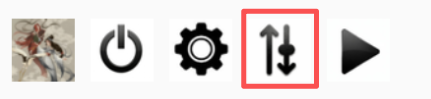
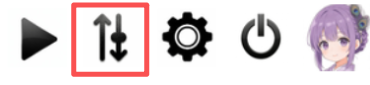
Update assets and refactor authentication and UI logic
This commit updates the switch_explain.png asset and refactors the user authentication logic in Auth.kt for improved readability. It also modifies the UI behavior in SwitchAccount.kt to ensure proper state management during account switching, enhancing user experience. Additionally, the FindHeroHall function is updated to clarify the detection process for hero halls.

diff --git a/app/src/main/java/com/coc/zkqcode/jar/code/auth/Auth.kt b/app/src/main/java/com/coc/zkqcode/jar/code/auth/Auth.kt
@@ -8,7 +8,6 @@ import com.coc.zkqcode.core.util.crypto.solvePoW
 import com.coc.zkqcode.jar.ui.schema.Schema.GLOBAL_SETTINGS
 import com.coc.zkqcode.nativehelper.RustTools
 import kotlinx.coroutines.Dispatchers
-import kotlinx.coroutines.delay
 import kotlinx.coroutines.sync.Mutex
 import kotlinx.coroutines.sync.withLock
 import kotlinx.coroutines.withContext
@@ -87,10 +86,7 @@ suspend fun userAuth() {
             return
         }
 
-        val payload = "email=${urlEncode(email)}" +
-                "&password=${urlEncode(password)}" +
-                "&timestamp=$timestamp" +
-                "&last_time=$lastTime"
+        val payload = "email=${urlEncode(email)}" + "&password=${urlEncode(password)}" + "&timestamp=$timestamp" + "&last_time=$lastTime"
 
         val encryptionParts = try {
             RustTools.encryptLoginPayload(payload).split(",", limit = 3)
@@ -105,20 +101,13 @@ suspend fun userAuth() {
             return
         }
 
-        val postData = "public_key=${encryptionParts[0]}" +
-                "&nonce=${encryptionParts[1]}" +
-                "&data=${encryptionParts[2]}" +
-                "&pow_nonce=$powNonce" +
-                "&pow_salt=$powSalt"
+        val postData = "public_key=${encryptionParts[0]}" + "&nonce=${encryptionParts[1]}" + "&data=${encryptionParts[2]}" + "&pow_nonce=$powNonce" + "&pow_salt=$powSalt"
 
         val responseCode: Int
         val responseBody: String
         try {
             val requestBody = postData.toRequestBody("application/x-www-form-urlencoded".toMediaTypeOrNull())
-            val deductRequest = Request.Builder()
-                .url("${baseUrl}api/mobile-deduct")
-                .post(requestBody)
-                .build()
+            val deductRequest = Request.Builder().url("${baseUrl}api/mobile-deduct").post(requestBody).build()
             val response = withContext(Dispatchers.IO) {
                 httpClient.newCall(deductRequest).execute()
             }
@@ -136,8 +125,10 @@ suspend fun userAuth() {
             // Flag ad display on non-200 deduct response
             ShowMessage("登录失败，错误信息：$responseBody")
             delayWithMultiplier(2000)
-            GlobalVars.serverActions?.writeToConfigFile("gem_count", "0")
-            GlobalVars.configStates["gem_count"]?.value = "0"
+            if (responseBody.contains("密码错误")) {
+                GlobalVars.serverActions?.writeToConfigFile("gem_count", "0")
+                GlobalVars.configStates["gem_count"]?.value = "0"
+            }
             GlobalVars.isShowAd = true
             return
         }

diff --git a/app/src/main/java/com/coc/zkqcode/jar/ui/pages/single/SwitchAccount.kt b/app/src/main/java/com/coc/zkqcode/jar/ui/pages/single/SwitchAccount.kt
@@ -216,8 +216,11 @@ fun SwitchAccount(onClose: () -> Unit) {
                                     RunShell.runNoOutput("am start -n com.supercell.clashofclans/com.supercell.titan.GameApp", false)
                                 }
                                 GlobalVars.isSwitchingAccount = false
+                                AppStateManager.setMode(AppMode.Run) //just to close the ui
+                                GlobalVars.isPlaying.value = false
+                                GlobalVars.updateWindowPosition = true
                                 withContext(Dispatchers.Main) {
-                                    ShowMessage("切号完成")
+                                    ShowMessage("切号完成", false)
                                     onClose()
                                 }
                             }

diff --git a/app/src/main/java/com/coc/zkqcode/jar/code/MainScript.kt b/app/src/main/java/com/coc/zkqcode/jar/code/MainScript.kt
@@ -82,7 +82,7 @@ suspend fun runMainScript() {
     var lastUpdateCheckTime = System.currentTimeMillis()
     var nextUpdateInterval = (2 * 3600_000L) + (Math.random() * 3600_000L).toLong()
     while (currentCoroutineContext().isActive) {
-        runTestCode()
+       // runTestCode()
 
         displayAds()
         RunShell.runNoOutput("am kill-all")//clean up memory

diff --git a/app/src/main/java/com/coc/zkqcode/jar/code/mainbase/herohall/FindHeroHall.kt b/app/src/main/java/com/coc/zkqcode/jar/code/mainbase/herohall/FindHeroHall.kt
@@ -60,7 +60,9 @@ suspend fun findHeroHall(): List<DetectionResult> {
             }
         }
 
+        // classIndex 3 == HeroHall in the building-detect model
         val result = detections
+            .filter { it.classIndex == 3 }
             .filter { it.boundingBox.centerX() in 100f..1180f }
             .sortedByDescending { it.score }
 
